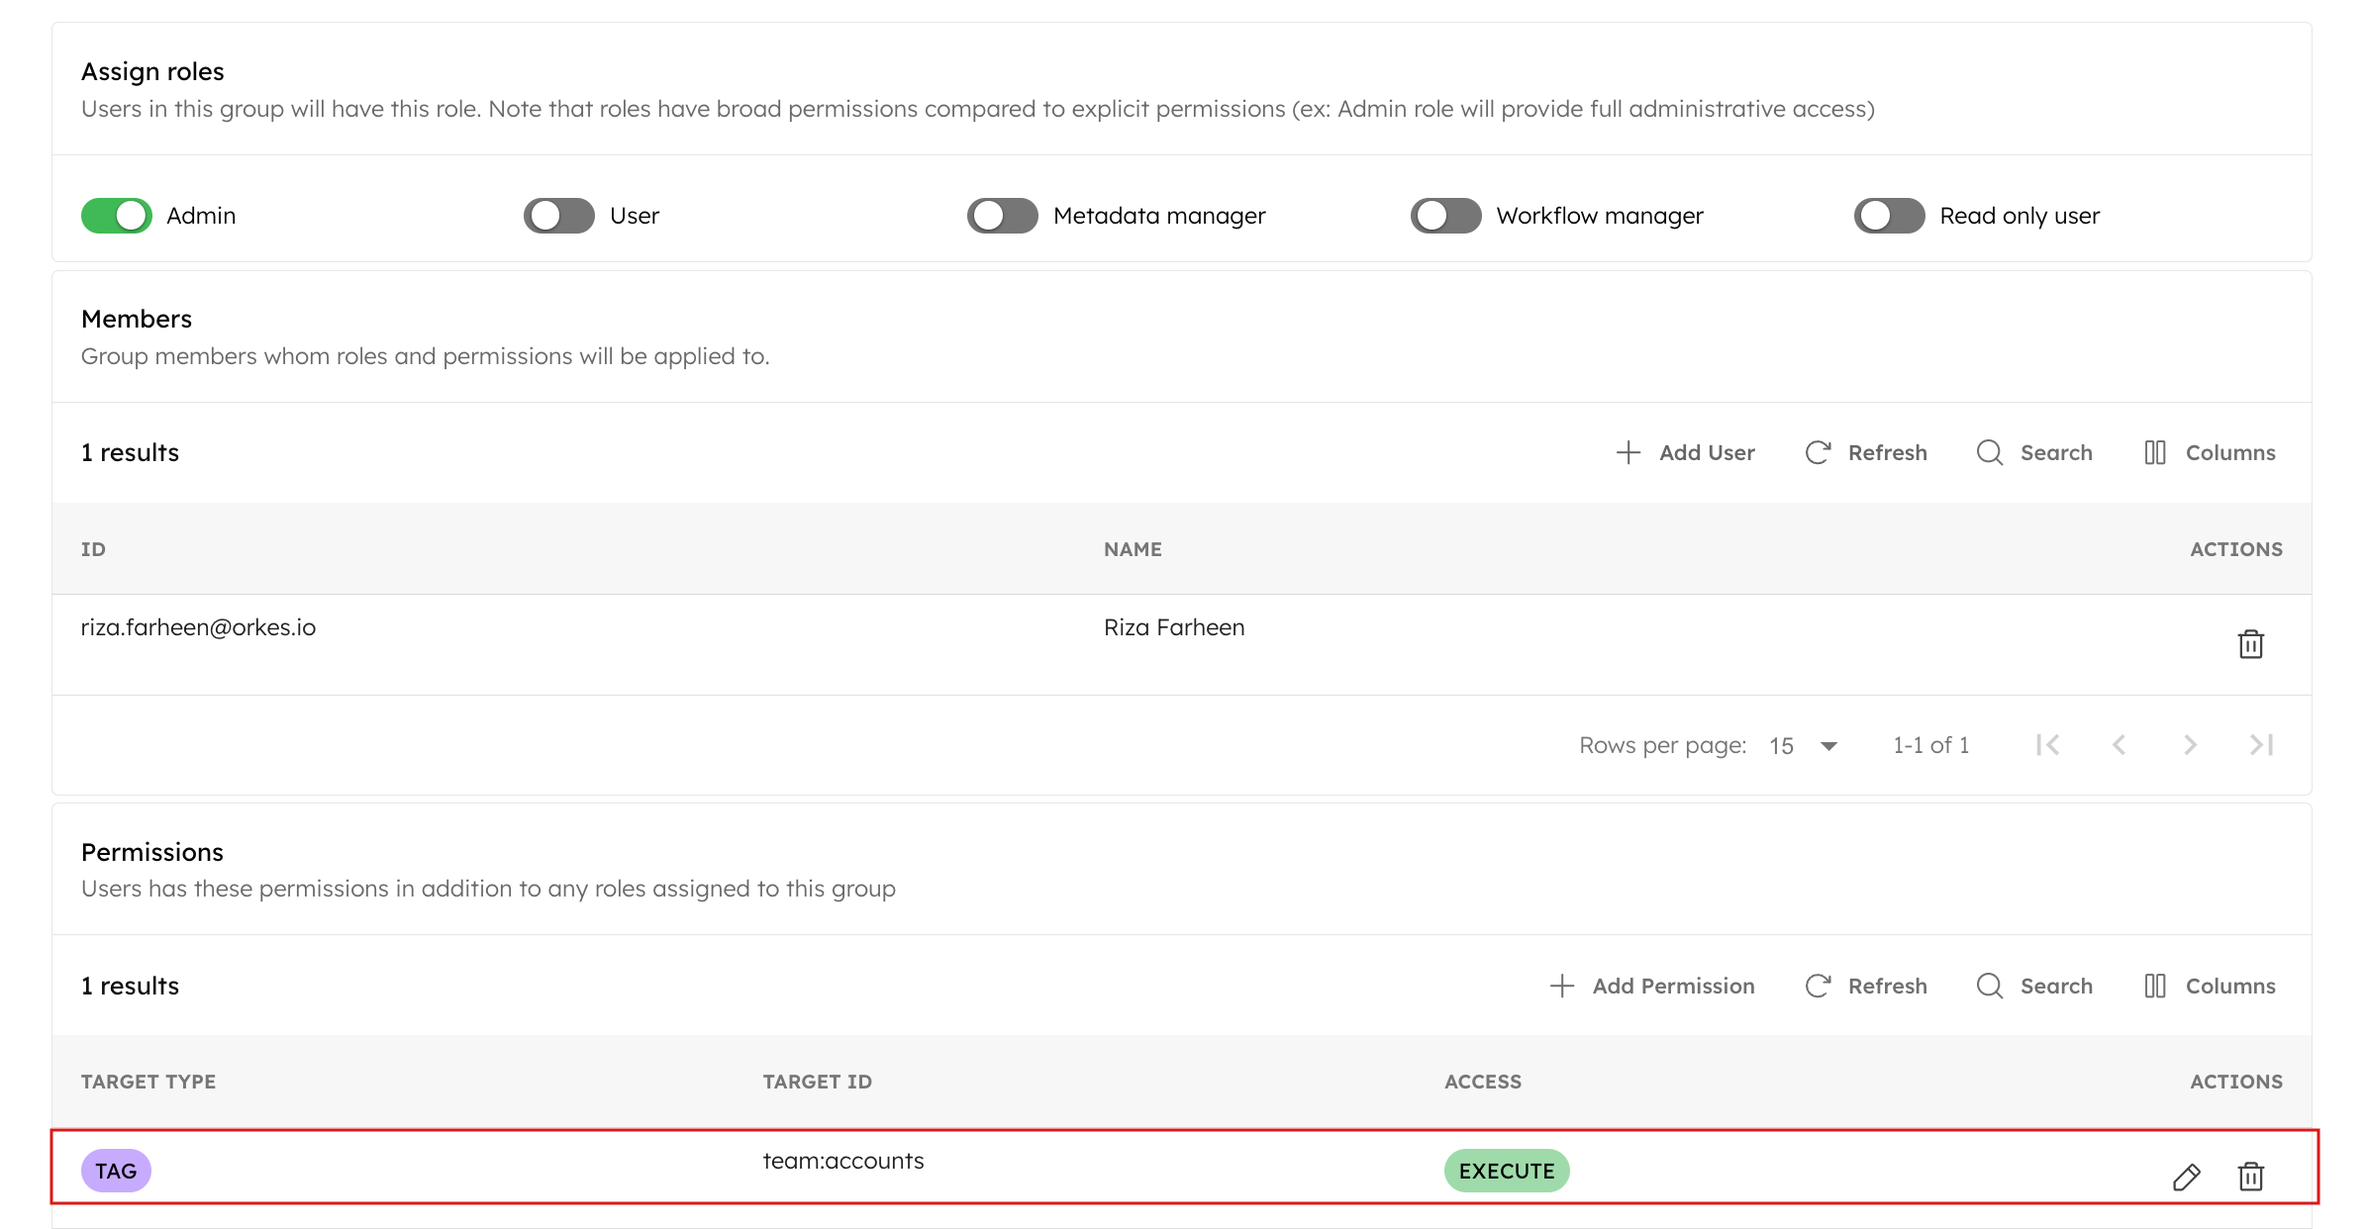
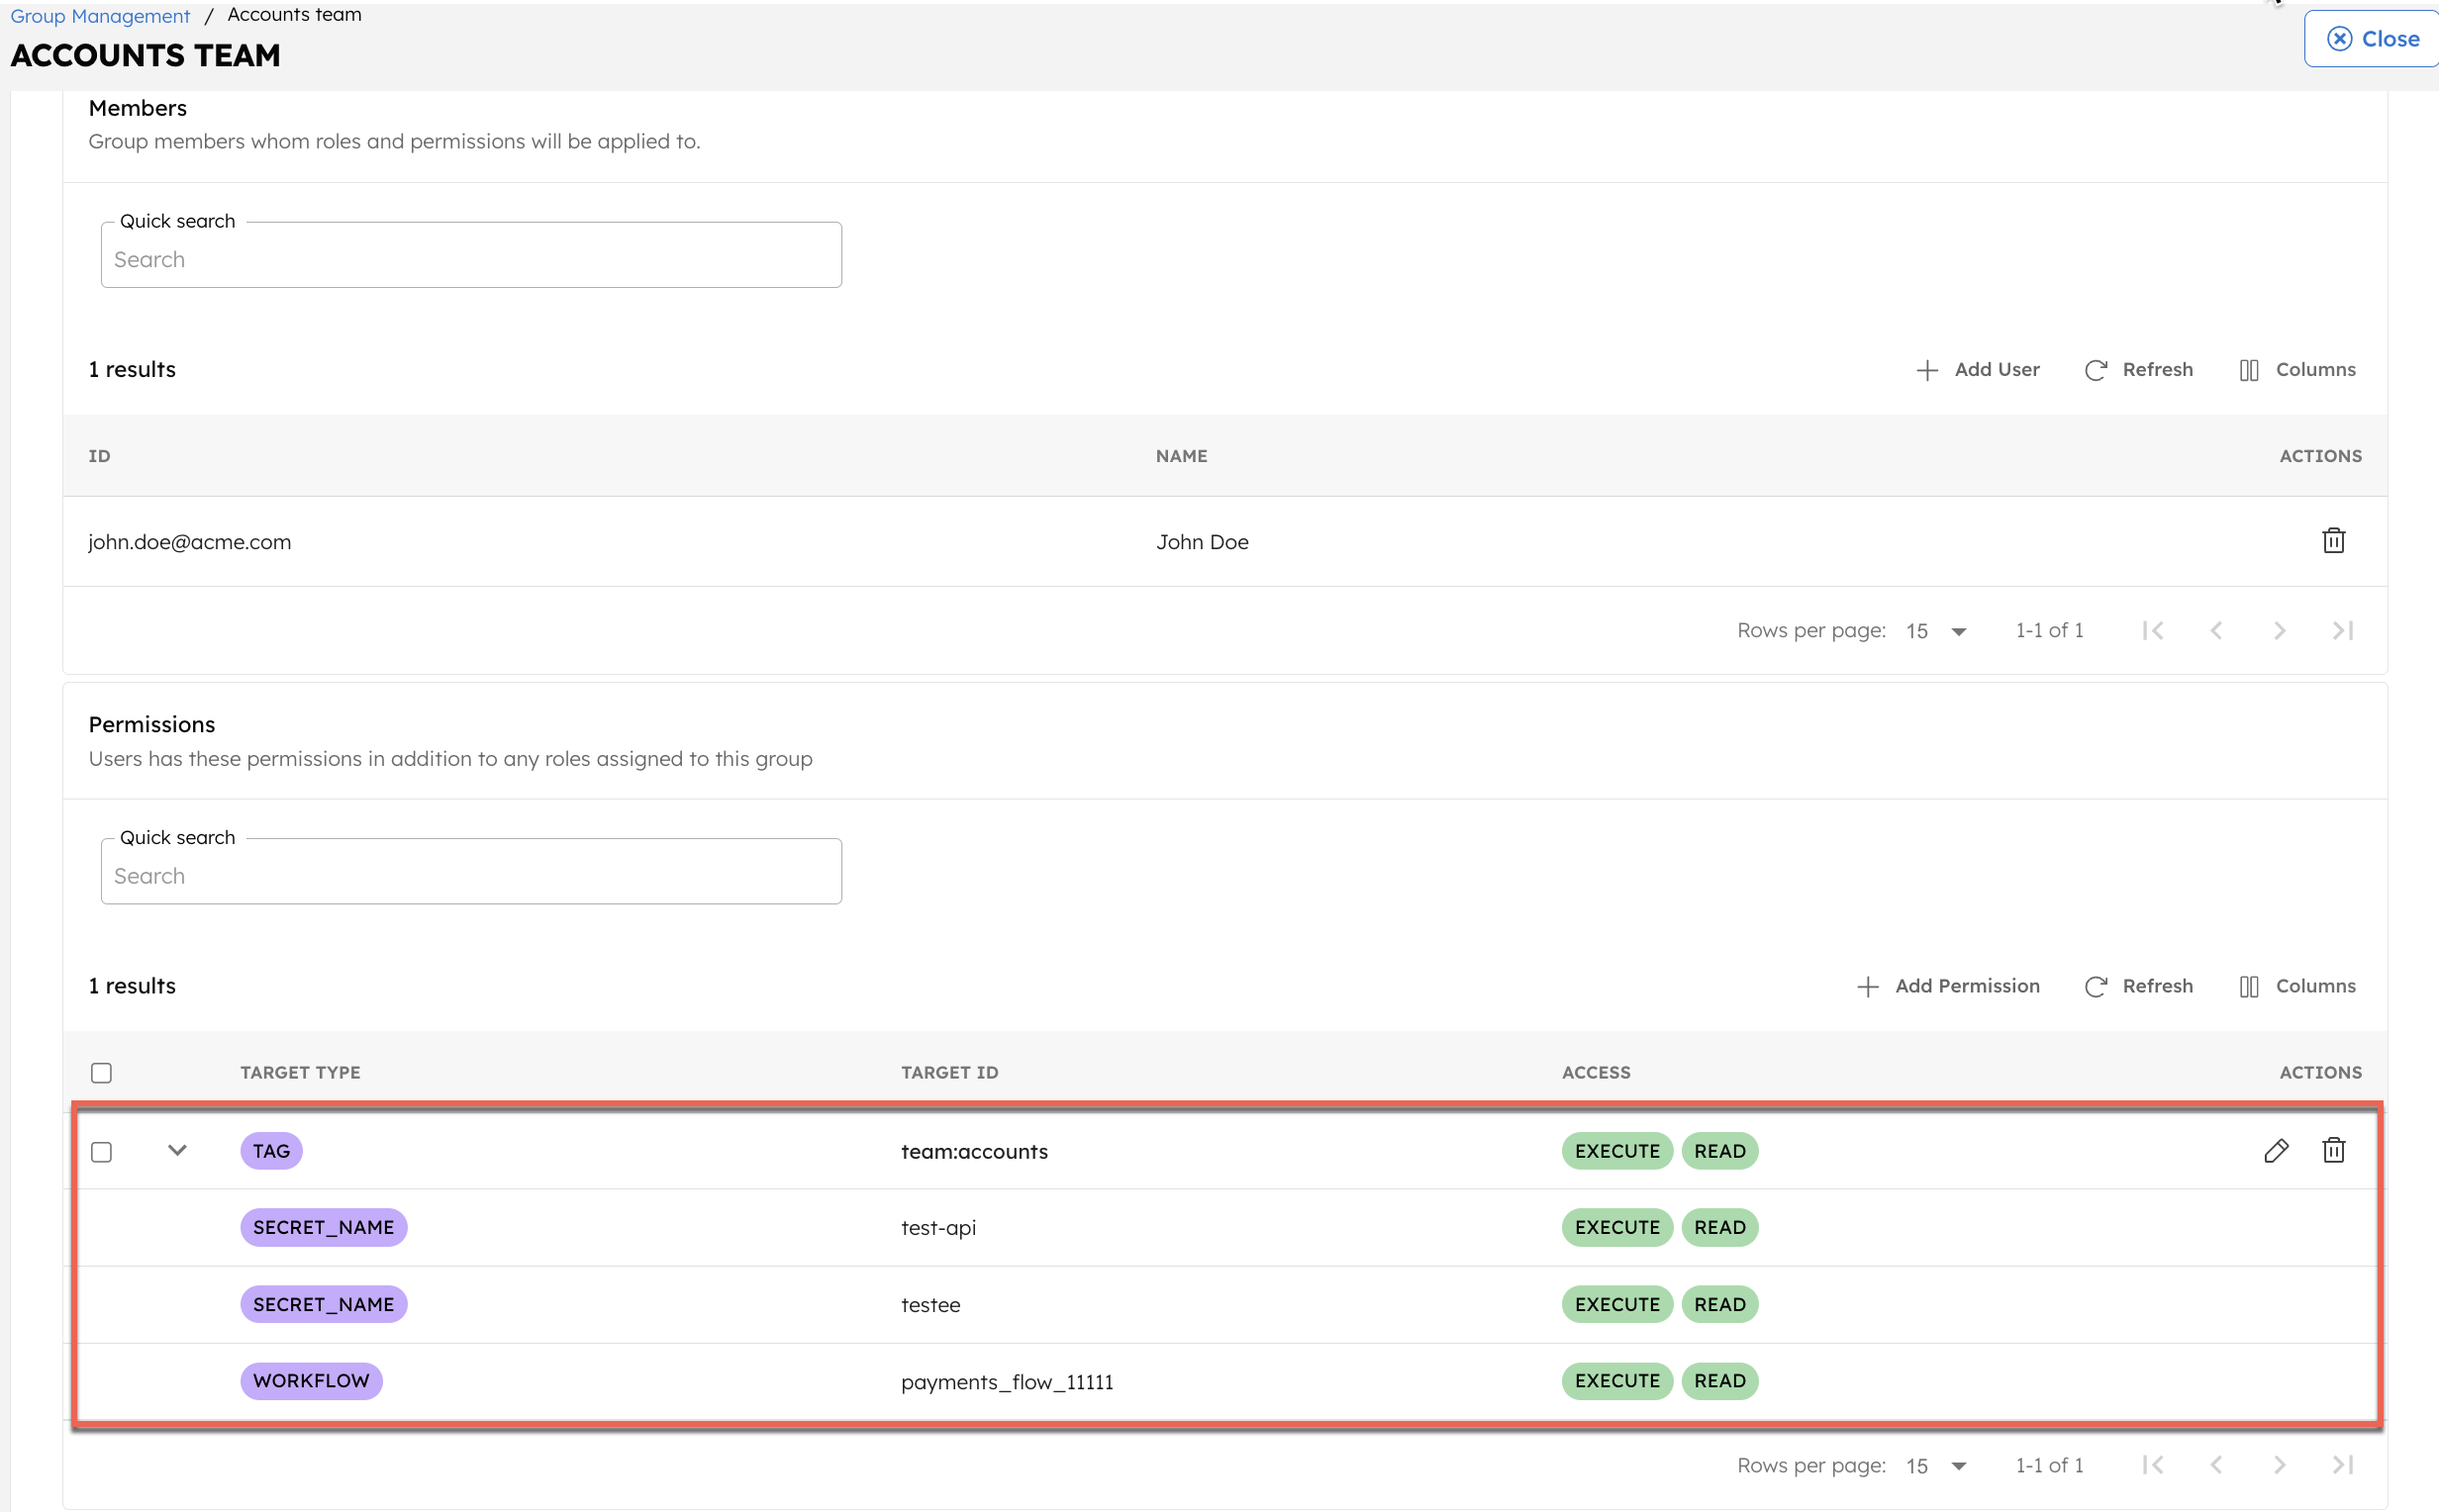
Tags Update

diff --git a/docs/access-control-and-security/tags.md b/docs/access-control-and-security/tags.md
@@ -1,78 +1,105 @@
 # Managing Tags in Conductor
 
-The tags are metadata applied to tasks, workflows, schedulers, or secrets in Conductor. The tags in Conductor are of the format **key:value**. Tags can be utilized in situations where you can easily share permissions with a group of users.
+Tags are metadata in Conductor, formatted as `key:value`, that can be applied to various entities like tasks, workflows, schedulers, secrets, webhooks, AI prompts, environment variables, integrations, and applications. Tags help in bulk permission sharing by associating permissions with specific tags.
 
-You can either add tags directly to individual workflows/tasks/secrets/schedulers. Or you can also add tags to user groups.
+## Adding Tags to Entities
 
-## Adding Tags to Workflows
+You can add or remove tags for various entities using similar steps. Follow the instructions below based on the type of entity you wish to tag:
 
-To add a tag to a workflow,
-1. From the left menu, navigate to **Definitions > Workflow** and find the workflow you wish to tag.
-2. In the **Actions** column, click the tag icon.
+* Workflows
+* Tasks
+* Schedulers
+* Secrets
+* Webhooks
+* AI Prompts
+* Environment Variables
+
+Steps to add a tag:
+
+1. Navigate to **Definitions** from the left menu on your Orkes Conductor cluster.
+2. Select **Workflow / Task / Scheduler / Secrets / Webhook / AI prompts / Environment Variables** depending on the entity you want to tag.
+3. Locate the specific entity you wish to tag.
+4. In the **Actions** column, click the tag icon.
 
 <p align="center"><img src="/content/img/adding-tags-to-workflow.png" alt="Adding a tag to an already created workflow" width="90%" height="auto"></img></p>
 
-This will open a pop-up window that allows you to add a new tag. Type a tag name in the format **key:value** and press enter to create new tags. You may also remove tags from the same window by clicking the "X" next to the tag you wish to delete.
+5. This opens a pop-up window where you can add a new tag. Enter a tag in the `key:value` format and press enter to create it. To remove a tag, click the "x" next to the tag.
 
 <p align="center"><img src="/content/img/editing-tags-in-conductor.png" alt="Editing a tag" width="60%" height="auto"></img></p>
 
-## Adding Tags to Tasks
+## Adding Tags to Integrations
 
-To add a tag to a task,
-1. From the left menu, navigate to the **Definitions > Task** and find the task you wish to tag.
-2. In the **Actions** column, click the tag icon.
+To add a tag to an integration:
 
-<p align="center"><img src="/content/img/adding-tag-to-task.png" alt="Adding a tag to an already created task" width="90%" height="auto"></img></p>
+1. Navigate to **Integrations** from the left menu on your Orkes Conductor cluster.
+2. Locate the specific integration you wish to tag.
+3. In the **Actions** column, click the tag icon.
 
-This will open a pop-up window that allows you to add a new tag. Type a tag name in the format **key:value** and press enter to create new tags. You may also remove tags from the same window by clicking the "X" next to the tag you wish to delete.
+<p align="center"><img src="/content/img/adding-tags-integrations.png" alt="Adding tags to integrations" width="90%" height="auto"></img></p>
 
-## Adding Tags to Scheduler
+4. This opens a pop-up window where you can add a new tag. Enter a tag in the `key:value` format and press enter to create it. To remove a tag, click the "x" next to the tag.
 
-To add a tag to a scheduler,
-1. From the left menu, navigate to **Definitions > Scheduler** and find the scheduler you wish to tag.
-2. In the **Actions** column, click the tag icon.
+<p align="center"><img src="/content/img/tag-format-integrations.png" alt="Adding/Editing tags in integrations" width="70%" height="auto"></img></p>
 
-This will open a pop-up window that allows you to add a new tag. Type a tag name in the format **key:value** and press enter to create new tags. You may also remove tags from the same window by clicking the "X" next to the tag you wish to delete.
+## Adding Tags to Applications
 
-## Adding Tags to Secrets
+To add a tag to an application:
 
-To add a tag to a secret,
-1. From the left menu, navigate to **Definitions > Secrets** and find the secret you wish to tag.
-2. In the **Actions** column, click the tag icon.
+1. Navigate to **Access Control > Applications** from the left menu on your Orkes Conductor cluster.
+2. Locate the specific application you wish to tag.
+3. In the **Actions** column, click the tag icon.
 
-This will open a pop-up window that allows you to add a new tag. Type a tag name in the format **key:value** and press enter to create new tags. You may also remove tags from the same window by clicking the "X" next to the tag you wish to delete.
+<p align="center"><img src="/content/img/adding-tags-application.png" alt="Adding tags to applications" width="90%" height="auto"></img></p>
+
+4. This opens a pop-up window where you can add a new tag. Enter a tag in the `key:value` format and press enter to create it. To remove a tag, click the "x" next to the tag.
+
+<p align="center"><img src="/content/img/tag-format-applications.png" alt="Adding/Editing tags in applications" width="70%" height="auto"></img></p>
 
 ## Using Tags for Permission Sharing in Bulk
 
-The above steps mention adding tags to individual tasks/workflows/schedulers/secrets. However, you can also add tags to a user group/application that helps in sharing permissions in bulk.
+In addition to tagging individual entities, you can use tags for bulk permission sharing by assigning them to user groups or applications.
 
 ### Using User Groups
 
-Suppose you have a group of users from the accounts team and want to share the workflow execution permission for all users in the group.
+To grant permissions to a group of users:
+
+1. Tag the Entities
+
+Ensure that the relevant entities are tagged with a specific tag, for example `team:accounts`.
+
+2. Update Group Permissions
 
 To add permissions to the group,
-1. Ensure that the workflow is tagged with the tag **team:accounts**. (If permission is to be shared for tasks/secrets, you need to add the tags to the corresponding items.)
-2. Navigate to **Access Control > Groups** and click the edit icon near your group name.
-3. From the **Permissions** section, click **+Add Permission**.
-4. Click on the **Tag** section, choose **team:accounts** tag, and provide EXECUTE permission. You must also provide READ permission to list the workflows/tasks/schedulers/secrets in your Conductor console.
-5. Clicking **Add Permission** adds the tag to the Group.
+
+1. Navigate to **Access Control > Groups** and click the edit icon next to the group name.
+2. In the **Permissions** section, click **+Add Permission**.
+3. Choose the **Tag** section, select the required tag, and assign the necessary permissions. Typically, you’ll need to provide **_EXECUTE_** permission for execution rights and **_READ_** permission to list the entities.
+4. Clicking **Add Permission** adds the tags to the group.
+5. Click on the **>** to view all the entities tagged. 
+
 
 <p align="center"><img src="/content/img/adding-tags-to-a-user-group-in-conductor.png" alt="Adding tags to a user group" width="100%" height="auto"></img></p>
 
-This enables all the group members to have execute access to the workflow tagged with **team:accounts**. This would also provide execute access to all tasks/secrets/scheduler flagged with this tag.
+This configuration grants all group members execute and read access to the tagged entities simplifying permission management for large teams.
 
 ### Using Applications
 
-You can also allow the applications created to have explicit permissions over the workflows/tasks/secrets/schedulers tagged with the required tags.
+To grant permissions to an application:
 
-Suppose you want to provide access to the tag “**team:accounts**” for your application;
+1. Tag the Entities
 
-1. Ensure that the workflow/task/secret/scheduler is tagged with the tag **team:accounts**.
-2. Then, navigate to **Access Control > Applications** and click the edit icon near your app name.
-3. From the **Workflow and Task Permissions** section, click **+Add Permission**.
-4. Click on the **Tag** section, choose **team:accounts** tag, and provide the required permission.
-5. Clicking **Add Permission** adds the tag to the application.
+Ensure that the relevant entities are tagged with a specific tag, for example `team:accounts`.
+
+2. Update Group Permissions
+
+To add permissions to an application,
+
+1. Navigate to **Access Control > Applications** and click the edit icon next to the application name.
+2. In the **Permissions** section, click **+Add Permission**.
+3. Choose the **Tag** section, select the required tag, and assign the necessary permissions. Typically, you’ll need to provide **_EXECUTE_** permission for execution rights and **_READ_** permission to list the entities.
+4. Clicking **Add Permission** adds the tags to the application.
+5. Click on the **>** to view all the entities tagged. 
 
 <p align="center"><img src="/content/img/adding-tags-to-application-in-orkes-conductor.png" alt="Adding tags to application in Conductor" width="100%" height="auto"></img></p>
 
-This enables the application to have execute access to all the workflows/tasks/secrets/schedulers flagged with the “**team:accounts**” tag.
+This configuration grants the application execute and read access to the tagged entities simplifying permission management for large teams.
